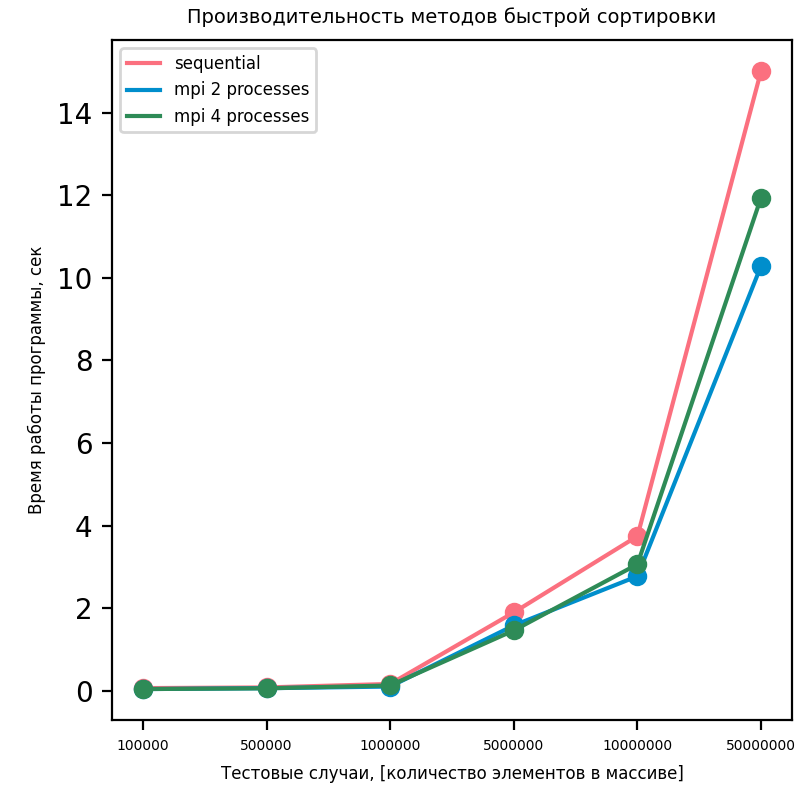
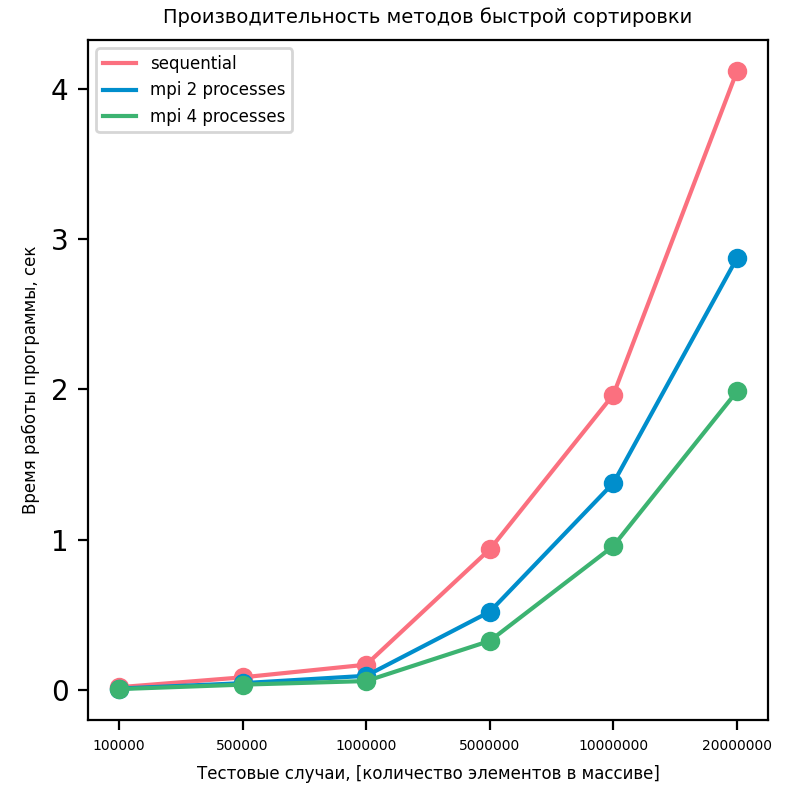
update report

diff --git a/implementation/task_3/scripts/run.py b/implementation/task_3/scripts/run.py
@@ -15,6 +15,7 @@ TEST_CASES = {
     2: 1_000_000,
     3: 5_000_000,
     4: 10_000_000,
+    5: 20_000_000,
 }
 MODES = {
     1: "sequential",
@@ -25,7 +26,7 @@ MODES = {
 MODE_COLORS = {
     1: '#FB707F',
     2: '#008ECC',
-    3: '#6495ED',
+    3: '#3CB371',
 }
 
 SERIAL_MODE = 1
@@ -130,7 +131,7 @@ def plot_time_graphics(benchmark_results: List[BenchmarkResult]):
 
 def plot_efficiency_graphics(benchmark_results: List[BenchmarkResult]):
     plt.figure(figsize=(4, 4))
-    left, width = 0.12, 0.85
+    left, width = 0.14, 0.85
     bottom, height = 0.1, 0.85
 
     ax = plt.axes([left, bottom, width, height])

diff --git a/implementation/task_3/README.md b/implementation/task_3/README.md
@@ -48,8 +48,8 @@ make run
 # Результаты 
 
 ## Характеристики ПК
-- OS: Ubuntu 19.10
-- CPU: Intel(R) Core(TM) i5-7400 CPU @3.00GHz; 1 Physical processor; 4 cores; 4 threads
+- OS: Ubuntu 20.04
+- CPU: Intel(R) Core(TM) i7-10510U CPU @ 1.80GHz; 1 Physical processor; 4 cores; 8 threads
 - RAM: 16 GB
 
 ## Полученные результаты
@@ -59,4 +59,4 @@ make run
 ![Time](../../reports/pictures/task_3_time_report.png)
 
 Запуск производился 5 раз для каждого набора данных, потом бралось усредненное значение.
-Таким образом было получено ускорение в среднем в 1.2-1.3 раза относительно последовательного способа. 
+Таким образом было получено ускорение в среднем в 2-3 раза относительно последовательного способа. 

diff --git a/reports/task_3.md b/reports/task_3.md
@@ -48,8 +48,8 @@ make run
 # Результаты 
 
 ## Характеристики ПК
-- OS: Ubuntu 19.10
-- CPU: Intel(R) Core(TM) i5-7400 CPU @3.00GHz; 1 Physical processor; 4 cores; 4 threads
+- OS: Ubuntu 20.04
+- CPU: Intel(R) Core(TM) i7-10510U CPU @ 1.80GHz; 1 Physical processor; 4 cores; 8 threads
 - RAM: 16 GB
 
 ## Полученные результаты
@@ -59,4 +59,4 @@ make run
 ![Time](pictures/task_3_time_report.png)
 
 Запуск производился 5 раз для каждого набора данных, потом бралось усредненное значение.
-Таким образом было получено ускорение в среднем в 1.2-1.3 раза относительно последовательного способа. 
+Таким образом было получено ускорение в среднем в 2-3 раза относительно последовательного способа. 
